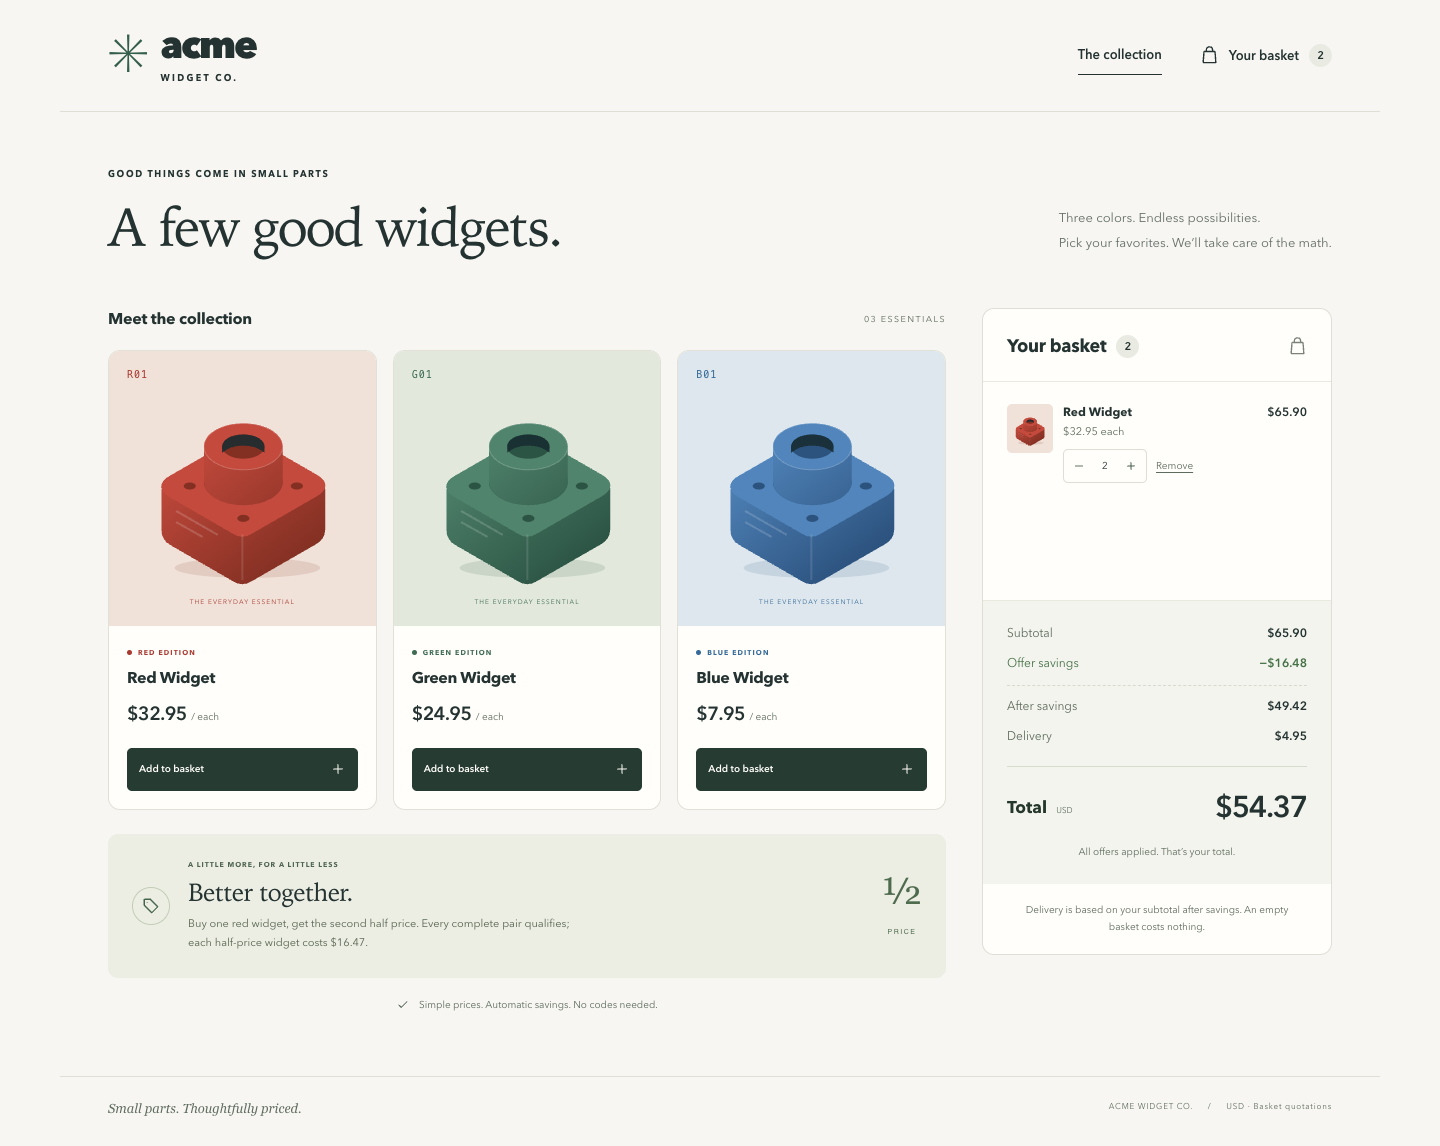
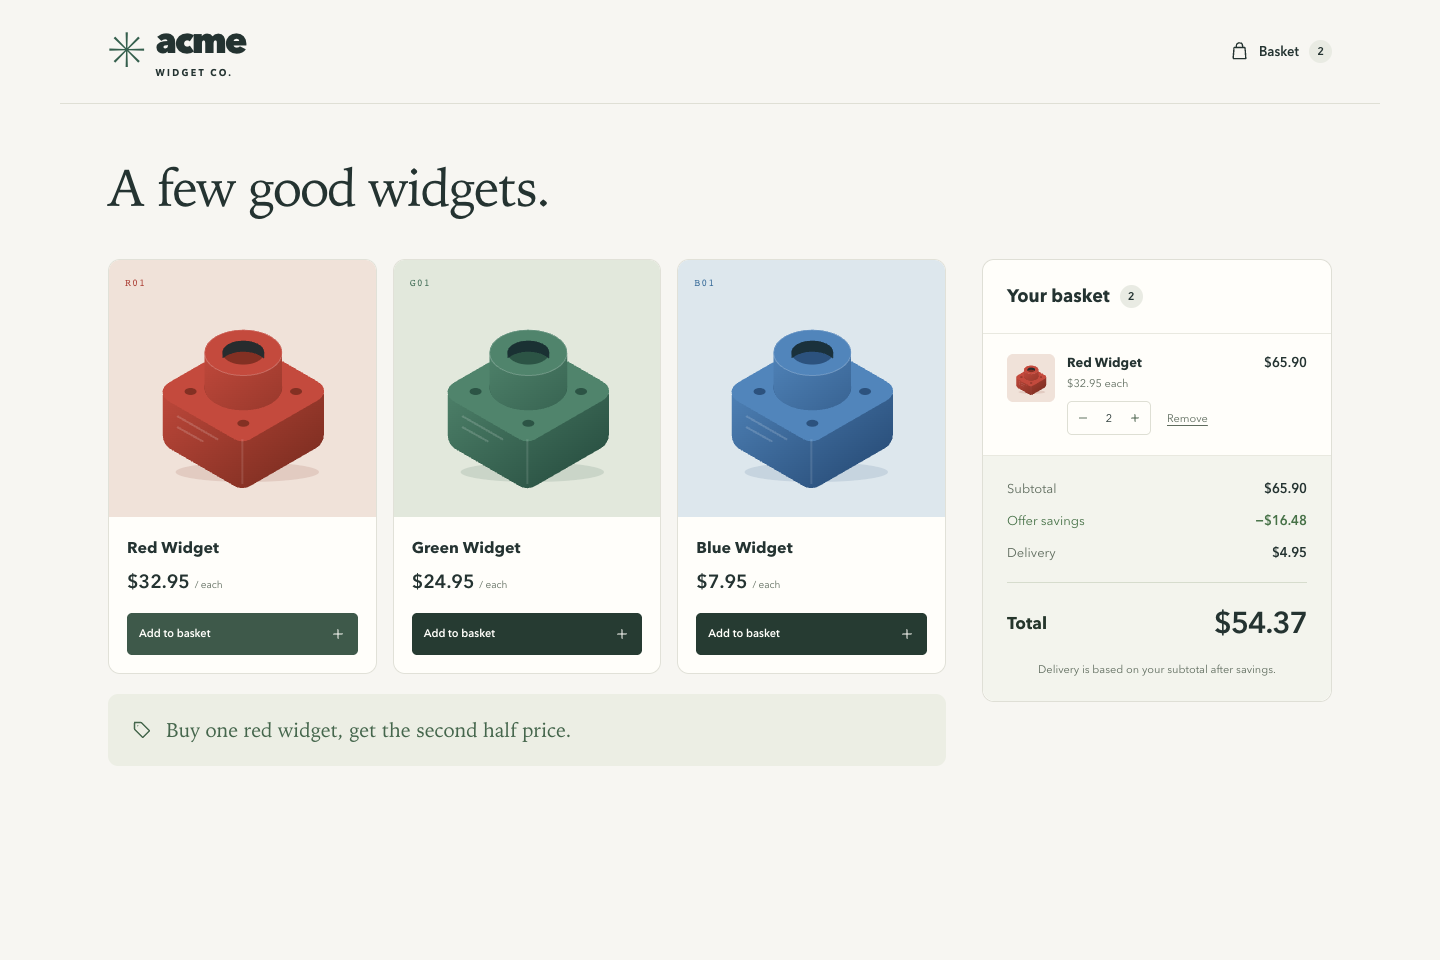
docs: rewrite README concisely and remove process documents

diff --git a/README.md b/README.md
@@ -1,149 +1,66 @@
 # Acme Widget Co
 
-A working basket quotation app with a small, ordinary-PHP domain, a Laravel API, and a responsive React/TypeScript screen. All four challenge totals match. Docker builds and serves the complete app with one command.
+A proof-of-concept sales basket: a small, framework-free PHP pricing model, exposed through a Laravel API and used by a React/TypeScript screen. All four example totals from the brief are covered by tests.
 
-![Actual application showing two red widgets and a $54.37 total](docs/screenshot.png)
-
-**Start here:** [`Basket.php`](backend/app/Domain/Basket/Basket.php), its [domain types and strategies](backend/app/Domain/Basket), and the [acceptance tests](backend/tests/Unit/Domain/Basket/BasketTest.php). The [design notes](docs/design-notes.md) explain all ten types, the two-red/six-red calculations, and the per-unit rounding policy. [Verification](docs/verification.md) records checks and limits.
+![Basket with two red widgets totalling $54.37](docs/screenshot.png)
 
 ## Run
 
-Docker Desktop or Docker Engine with Compose v2 supporting `--wait` is the only application-runtime prerequisite. Initial builds need access to Docker Hub, Packagist, and npm.
+Requires Docker.
 
 ```sh
-docker compose up --build --wait
+docker compose up --build
 ```
 
-Open **http://localhost:8080**. Docker installs locked dependencies, compiles React under `/app/`, generates a startup encryption key, caches Laravel configuration, and serves both the API and UI with Apache. No host PHP, Composer, Node, `.env`, key-generation command, database, or second server is needed. Readiness checks the built HTML and Laravel's `/up` route. Only `app` starts by default.
+Open http://localhost:8080.
+
+## Test
 
 ```sh
-docker compose ps
-docker compose logs -f app
-docker compose down
-# Rebuild after editing source:
-docker compose up --build --wait
-# Choose another host port (APP_URL follows it):
-APP_PORT=8081 docker compose up --build --wait
+docker compose run --rm backend composer test    # PHPUnit: domain unit tests + API tests
+docker compose run --rm backend composer lint    # Pint + PHPStan (level 8)
+docker compose run --rm frontend npm test        # Vitest + Testing Library
+docker compose run --rm frontend npm run lint    # Oxlint
 ```
 
-An optional `APP_KEY` environment variable supplies a fixed Laravel key. Otherwise a fresh valid key is generated at every startup; the quotation app is stateless. The final image has no Node, Composer, development PHP packages, or `.env`.
+The same checks run in [CI](.github/workflows/ci.yml).
 
-## Checks
+## How it works
 
-Run from the repository root. Tools use development dependencies in their own images, honor the supplied command, and do not start the app. They copy source during the build; use `--build` after edits.
+The basket lives in [`backend/app/Domain/Basket`](backend/app/Domain/Basket). It is plain PHP with no Laravel dependencies:
 
-```sh
-docker compose config
-docker compose --profile tools run --rm --build backend-tools php artisan test
-docker compose --profile tools run --rm --build backend-tools vendor/bin/pint --test
-docker compose --profile tools run --rm --build backend-tools vendor/bin/phpstan analyse
-docker compose --profile tools run --rm --build frontend-tools npm run typecheck
-docker compose --profile tools run --rm --build frontend-tools npm run lint
-docker compose --profile tools run --rm --build frontend-tools npm run build
-# Pure domain tests, without Laravel boot:
-docker compose --profile tools run --rm backend-tools vendor/bin/phpunit --testsuite Unit
-# HTTP smoke against the running app, including built assets and error contracts:
-docker compose --profile tools run --rm frontend-tools node scripts/smoke.mjs http://app
-```
-
-PHPStan runs at level 8 without a baseline. Lint fails on warnings. The PHP suites need no database or migrations. [CI](.github/workflows/ci.yml) builds the tool images, runs these checks, starts the app, exercises HTTP, and stops containers even after failure. [Versions and portability](docs/versions.md) records the pinned official images and lockfiles.
-
-## Model and framework boundaries
-
-`Basket` owns a map of quantities by case-sensitive product code. It receives an immutable `ProductCatalogue`, a `DeliveryPolicy`, and a list of `Offer` strategies. `add(code)` adds one unit; `total(): string` returns an exact two-decimal amount. `breakdown()` produces immutable line snapshots and totals. Repeated calculations preserve state, and an invalid addition leaves the basket unchanged.
-
-Money stores nonnegative integer USD cents, with exact arithmetic and overflow checks. The domain has no Laravel facades, configuration reads, HTTP types, or Eloquent. Here is a direct example using Composer autoloading without booting Laravel:
+| Class | Role |
+| --- | --- |
+| `Basket` | Built with a catalogue, a delivery policy and a list of offers. Provides `add($code)`, `total()` and `breakdown()`. |
+| `Money` | Integer cents, so the arithmetic is exact. |
+| `Product`, `ProductCatalogue` | Products and lookup by code. |
+| `Offer` → `HalfPriceSecondItemOffer` | Strategy interface: takes the basket lines and returns a discount. |
+| `DeliveryPolicy` → `ThresholdDeliveryPolicy` | Strategy interface: takes the discounted subtotal and returns a delivery charge, using a list of `DeliveryBand`s. |
+| `BasketLine`, `BasketTotals` | Immutable results of a calculation. |
 
 ```php
-require 'backend/vendor/autoload.php';
-
-use App\Domain\Basket\{Basket, HalfPriceSecondItemOffer, Money, Product,
-    ProductCatalogue, ThresholdDeliveryPolicy};
-
-$catalogue = new ProductCatalogue([
-    new Product('R01', 'Red Widget', new Money(3295)),
-    new Product('G01', 'Green Widget', new Money(2495)),
-    new Product('B01', 'Blue Widget', new Money(795)),
-]);
-$delivery = new ThresholdDeliveryPolicy([
-    ['upperBoundCents' => 5000, 'chargeCents' => 495],
-    ['upperBoundCents' => 9000, 'chargeCents' => 295],
-    ['upperBoundCents' => null, 'chargeCents' => 0],
-]);
-$basket = new Basket($catalogue, $delivery, [new HalfPriceSecondItemOffer('R01')]);
+$basket = new Basket($catalogue, $deliveryPolicy, [new HalfPriceSecondItemOffer('R01')]);
 $basket->add('R01');
 $basket->add('R01');
-echo $basket->total(); // "54.37"
+$basket->total(); // "54.37"
 ```
 
-Laravel supplies primitive [configuration](backend/config/basket.php), [provider bindings](backend/app/Providers/BasketServiceProvider.php), request validation, and JSON serialization. The shared, stateless [`QuoteBasket`](backend/app/Application/QuoteBasket.php) merges duplicate rows and constructs a fresh mutable basket for every quote. No basket is bound as a singleton. No persistence is needed to calculate a quotation.
+Laravel only connects the model to HTTP:
+- [`BasketServiceProvider`](backend/app/Providers/BasketServiceProvider.php) builds the model from [`config/basket.php`](backend/config/basket.php) and gives each request a new `Basket`.
+- [`BasketController`](backend/app/Http/Controllers/BasketController.php) serves `GET /api/catalogue` and `POST /api/basket/quote`.
 
-React keeps quantities locally and asks the API for every monetary breakdown. Cancellation, a request counter, and a key identifying the current basket/attempt prevent old successes or errors from replacing newer quotes. While updating or after an error, amounts are hidden and the status is explicit. The client uses absolute `/api/...` paths on the same origin, with no development proxy.
+The React app in [`frontend/src`](frontend/src) stores only product codes and quantities. It asks the API for a fresh quote after every change, and [`useRequest`](frontend/src/hooks/useRequest.ts) cancels outdated requests so a slow response can't overwrite a newer one.
 
-To extend the model, inject another catalogue, delivery policy, or offer list. Update configuration and its display description together. Offers read prices from line snapshots; they do not look up the catalogue again. The current screen uses color accents for the three challenge products.
+To add a new offer, implement `Offer` and register it in `BasketServiceProvider`. To change prices or delivery bands, edit `config/basket.php`.
 
-## Pricing decisions
+## Assumptions
 
-| Basket | Total |
-| --- | ---: |
-| B01, G01 | $37.85 |
-| R01, R01 | $54.37 |
-| R01, G01 | $60.85 |
-| B01, B01, R01, R01, R01 | $98.27 |
-
-Every complete red pair has one full-price $32.95 unit and one $16.47 unit. Half-price is rounded down **per discounted unit**, producing $16.48 savings per pair. An unmatched red remains full price. Eligibility repeats and is independent of insertion order.
-
-Delivery follows the discounted merchandise subtotal: below $50 costs $4.95; $50 to below $90 costs $2.95; $90 or more is free. The two-red example establishes the order: $49.42 merchandise + $4.95 delivery = $54.37. Applying delivery to the $65.90 gross subtotal would give the wrong $52.37 total. Empty baskets have all-zero amounts.
-
-The examples do not uniquely determine rounding beyond one discounted unit:
-
-| Policy | Four R01 | Six R01 |
-| --- | ---: | ---: |
-| Aggregate discount, half-up | $98.85 | $148.27 |
-| **Chosen: each half-price unit rounded down** | **$98.84** | **$148.26** |
-| Aggregate discount, half-even | $98.85 | $148.28 |
-
-The tests compare all three using integer arithmetic. Repeating pairs, per-unit rounding, empty-basket behavior, case sensitivity, USD-only pricing, and no taxes are documented assumptions. Prices remain fixed for a basket's lifetime. Independent offer discounts are summed; overlapping-offer priorities and best-offer selection are outside scope. Returns/refunds, persistence, accounts, checkout, payments, inventory, and administration are outside this quotation POC.
-
-## API
-
-`GET /api/catalogue` returns `currency`, a `products` list with `code`, `name`, `unitPriceCents`, and `offerDescription`.
-
-```sh
-curl http://localhost:8080/api/catalogue
-curl http://localhost:8080/api/basket/quote \
-  -H 'Accept: application/json' \
-  -H 'Content-Type: application/json' \
-  --data '{"items":[{"code":"R01","quantity":2}]}'
-```
-
-The two-red response is:
-
-```json
-{
-  "currency": "USD",
-  "items": [{"code": "R01", "name": "Red Widget", "quantity": 2,
-             "unitPriceCents": 3295, "lineSubtotalCents": 6590}],
-  "subtotalCents": 6590,
-  "discountCents": 1648,
-  "discountedSubtotalCents": 4942,
-  "deliveryCents": 495,
-  "totalCents": 5437
-}
-```
-
-Line subtotals are gross. Savings appear once in the summary; neither serialization nor the frontend recalculates offers.
-
-The JSON root must be an object and `items` an actual array. `items` must be present; `[]` is valid. Each row contains only `code` and `quantity`. Codes must exist in the configured catalogue. Quantities must be actual integers from 1 to 1000; booleans, floats, numeric strings, and missing/zero/negative quantities fail. There is a maximum of 1000 rows and **1000 total units**, including duplicate rows. Duplicate codes are merged before quotation. Extra row fields are rejected; unknown top-level fields, including submitted prices, are ignored.
-
-| Request | Response |
-| --- | --- |
-| Valid basket, including `{"items":[]}` | 200 JSON quote |
-| Malformed JSON syntax | 400 JSON, `message: "Malformed JSON request body."` |
-| Invalid fields or JSON containers, including `{"items":{}}` | 422 JSON, Laravel `message`/`errors` |
-
-API errors render as JSON even without an Accept header. Non-JSON form requests reach the same field validation. The browser sends both JSON Content-Type and Accept headers.
+- **Delivery is charged on the subtotal after offers.** This is the only reading that matches the examples: two reds come to $65.90 − $16.48 = $49.42, which is under $50, so delivery is $4.95 and the total is $54.37.
+- **The red-widget offer applies to every pair:** 4 reds include 2 half-price units.
+- **Each half-price unit is rounded down to the cent:** $32.95 / 2 becomes $16.47. The examples don't decide this case. For four reds, rounding each half-price unit gives $98.84, while rounding the combined discount gives $98.85.
+- An empty basket costs $0.00, with no delivery charge.
+- Prices are in USD and include no tax. The API accepts each product once per request, with a quantity from 1 to 99.
 
 ## AI assistance
 
-AI assistance was used during implementation and documentation.
+AI tools were used while building and documenting this project.
